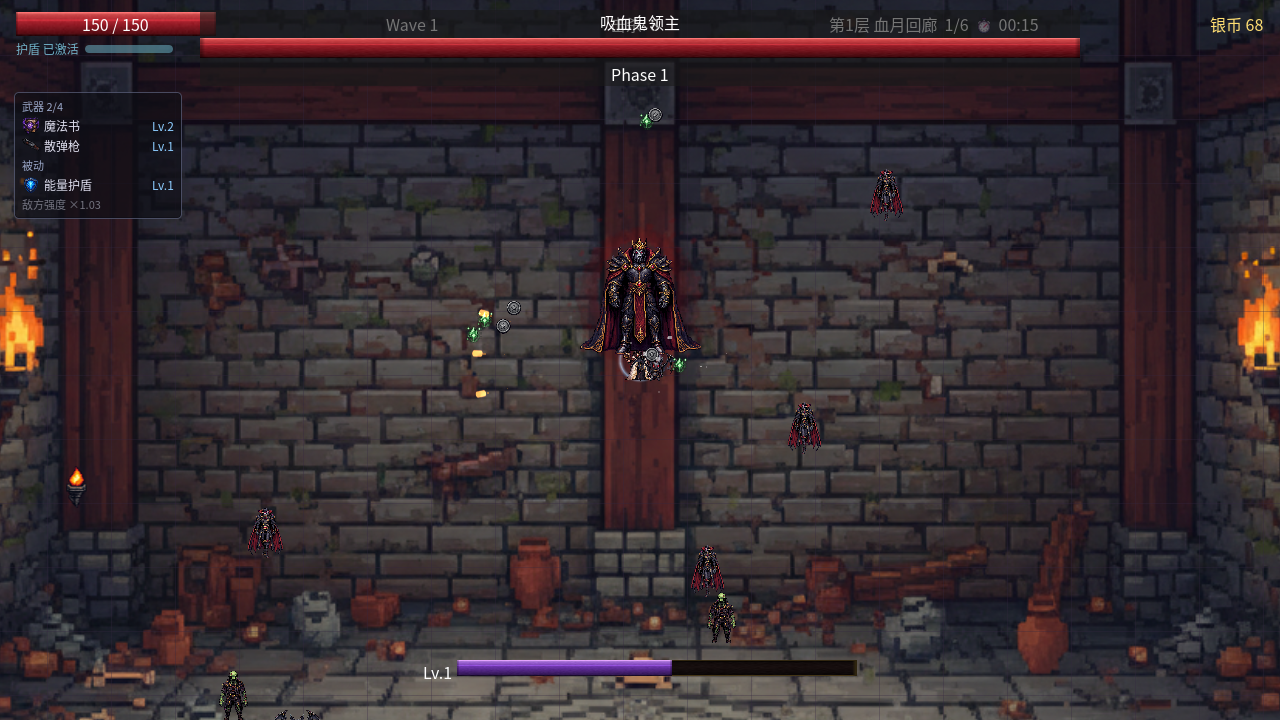
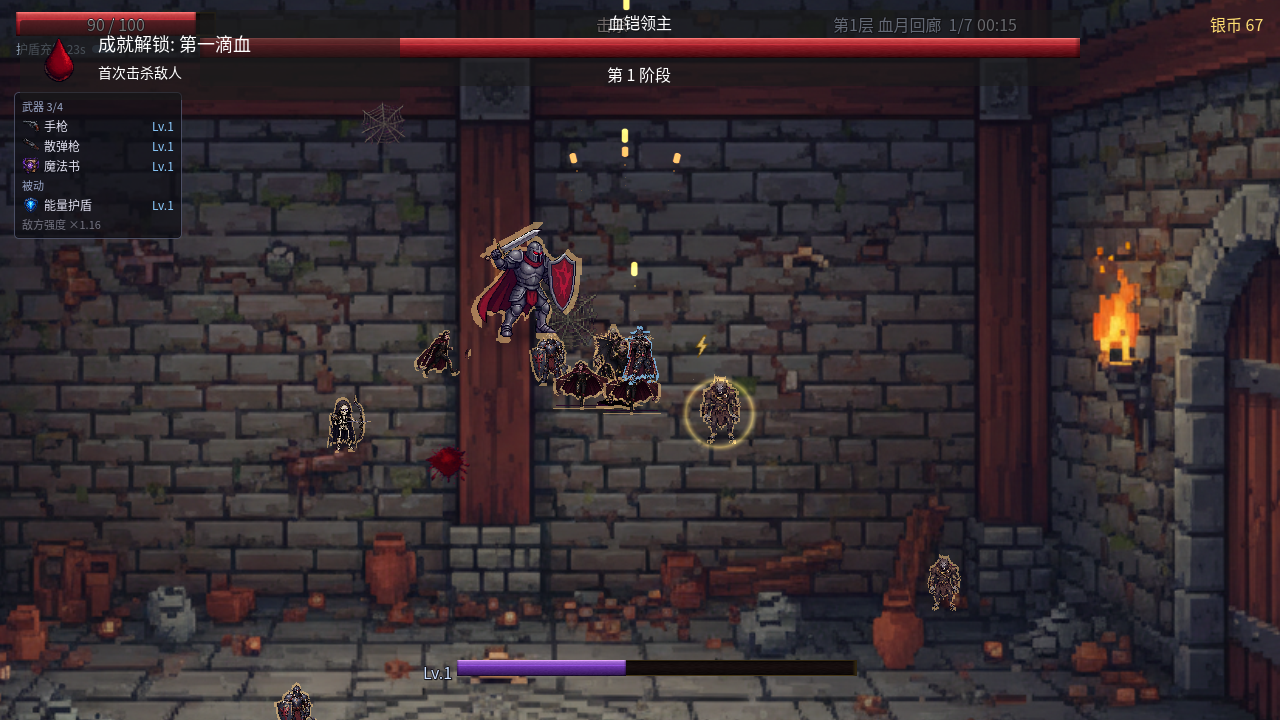
docs: 用当前版本重录宣传站实机图
上次只改了页面文字，六张截图仍是「第1层 1/6」。这次从当前游戏重录：战斗是 1/7 且地上有网，选角有刺客，商店能看到三条规则，升级卡写弹道变化。图片地址加了版本参数，避免浏览器继续用旧图。

diff --git a/site/index.html b/site/index.html
@@ -7,7 +7,7 @@
 <meta name="description" content="吸血鬼猎人：2D 哥特风 Roguelite 射击。五层地下城、18 把武器、5 名 Boss，自动开火、局内构筑。Godot 4.7，MIT 开源。">
 <meta property="og:title" content="吸血鬼猎人 Vampire Hunter Roguelite">
 <meta property="og:description" content="五层地下城，一路杀到月蚀女王。2D 哥特风 Roguelite 射击。">
-<meta property="og:image" content="https://wjt0321.github.io/Vampire-Hunter-Roguelite/assets/img/shots/gameplay.png">
+<meta property="og:image" content="https://wjt0321.github.io/Vampire-Hunter-Roguelite/assets/img/shots/gameplay.png?v=20261114">
 <link rel="canonical" href="https://wjt0321.github.io/Vampire-Hunter-Roguelite/">
 <link rel="icon" type="image/svg+xml" href="favicon.svg">
 <link rel="stylesheet" href="assets/css/style.css">
@@ -135,32 +135,32 @@
     <header class="section-head reveal">
       <p class="kicker">实机画面</p>
       <h2>没有片头，直接开打</h2>
-      <p class="section-lead">以下均为游戏内真实截图（1280×720）。</p>
+      <p class="section-lead">下面六张是刚才从当前版本录的 1280×720。战斗画面上的房间进度是 1/7。</p>
     </header>
     <div class="shot-grid" id="shotGrid">
-      <figure class="shot reveal" data-full="assets/img/shots/gameplay.png" data-cap="战斗：武器自动开火，走位与取舍才是操作">
-        <img src="assets/img/shots/gameplay.png" alt="游戏战斗画面" loading="lazy">
-        <figcaption><span>战斗</span><small>自动开火 · 走位与取舍</small></figcaption>
+      <figure class="shot reveal" data-full="assets/img/shots/gameplay.png?v=20261114" data-cap="第 1 层 1/7：地上的网可以绕开或打掉">
+        <img src="assets/img/shots/gameplay.png?v=20261114" alt="第1层战斗，房间进度 1/7，地上有蛛网" loading="lazy">
+        <figcaption><span>战斗</span><small>第 1 层 1/7 · 地上有网</small></figcaption>
       </figure>
-      <figure class="shot reveal" data-full="assets/img/shots/upgrade.png" data-cap="升级三选一：重抽、放逐、跳过换银币">
-        <img src="assets/img/shots/upgrade.png" alt="升级三选一界面" loading="lazy">
-        <figcaption><span>升级三选一</span><small>重抽 · 放逐 · 跳过</small></figcaption>
+      <figure class="shot reveal" data-full="assets/img/shots/upgrade.png?v=20261114" data-cap="升级三选一：这一级写的是弹道，不是只加伤害">
+        <img src="assets/img/shots/upgrade.png?v=20261114" alt="升级三选一，散弹枪显示弹道 3 到 4" loading="lazy">
+        <figcaption><span>升级三选一</span><small>这一级写弹道变化</small></figcaption>
       </figure>
-      <figure class="shot reveal" data-full="assets/img/shots/menu.png" data-cap="主菜单：哥特圣殿背景下的入口">
-        <img src="assets/img/shots/menu.png" alt="主菜单" loading="lazy">
+      <figure class="shot reveal" data-full="assets/img/shots/menu.png?v=20261114" data-cap="主菜单：哥特圣殿背景下的入口">
+        <img src="assets/img/shots/menu.png?v=20261114" alt="主菜单" loading="lazy">
         <figcaption><span>主菜单</span><small>哥特圣殿</small></figcaption>
       </figure>
-      <figure class="shot reveal" data-full="assets/img/shots/characters.png" data-cap="角色选择：猎人阿尔忒弥斯与牧师塞西莉亚">
-        <img src="assets/img/shots/characters.png" alt="角色选择界面" loading="lazy">
-        <figcaption><span>角色选择</span><small>三名角色 · 刺客改的是槽位</small></figcaption>
+      <figure class="shot reveal" data-full="assets/img/shots/characters.png?v=20261114" data-cap="角色选择：猎人、牧师，以及 1500 血晶的刺客莉薇娅">
+        <img src="assets/img/shots/characters.png?v=20261114" alt="三名角色：猎人、牧师、刺客莉薇娅" loading="lazy">
+        <figcaption><span>角色选择</span><small>三名角色 · 刺客改槽位</small></figcaption>
       </figure>
-      <figure class="shot reveal" data-full="assets/img/shots/shop.png" data-cap="房间商店：用局内银币买武器、被动与消耗品">
-        <img src="assets/img/shots/shop.png" alt="房间商店界面" loading="lazy">
-        <figcaption><span>房间商店</span><small>银币是本局唯一的硬通货</small></figcaption>
+      <figure class="shot reveal" data-full="assets/img/shots/shop.png?v=20261114" data-cap="元进度商店：百分比下面是提前武装、多一次放逐、第二次融合">
+        <img src="assets/img/shots/shop.png?v=20261114" alt="升级商店，列出三条血晶规则" loading="lazy">
+        <figcaption><span>元进度商店</span><small>百分比之外还有三条规则</small></figcaption>
       </figure>
-      <figure class="shot reveal" data-full="assets/img/shots/boss.png" data-cap="Boss 战：每层一位，攻击前有地面预警">
-        <img src="assets/img/shots/boss.png" alt="Boss 战画面" loading="lazy">
-        <figcaption><span>Boss 战</span><small>五名 Boss · 每层一位</small></figcaption>
+      <figure class="shot reveal" data-full="assets/img/shots/boss.png?v=20261114" data-cap="第 1 层 Boss 血铠领主，房间进度 1/7">
+        <img src="assets/img/shots/boss.png?v=20261114" alt="第1层 Boss 血铠领主" loading="lazy">
+        <figcaption><span>Boss 战</span><small>第 1 层 · 血铠领主</small></figcaption>
       </figure>
     </div>
   </div>
